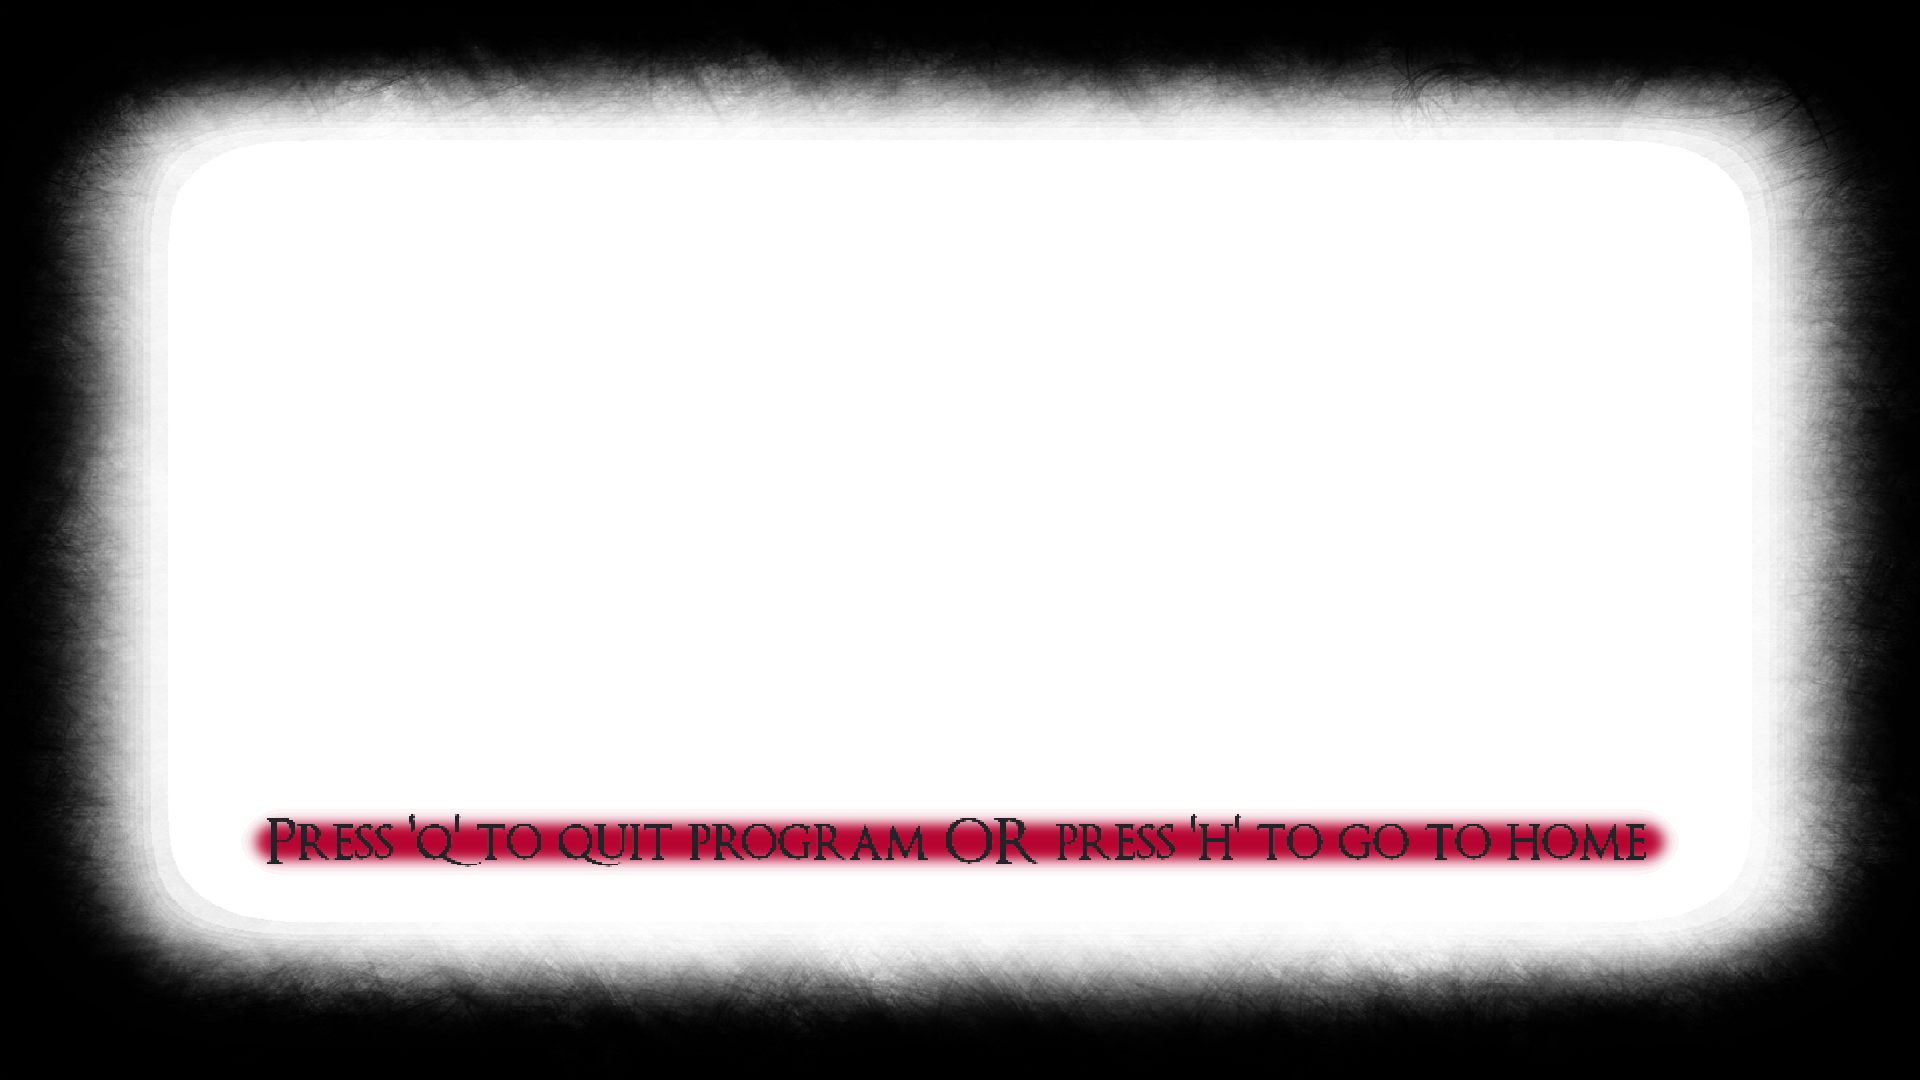
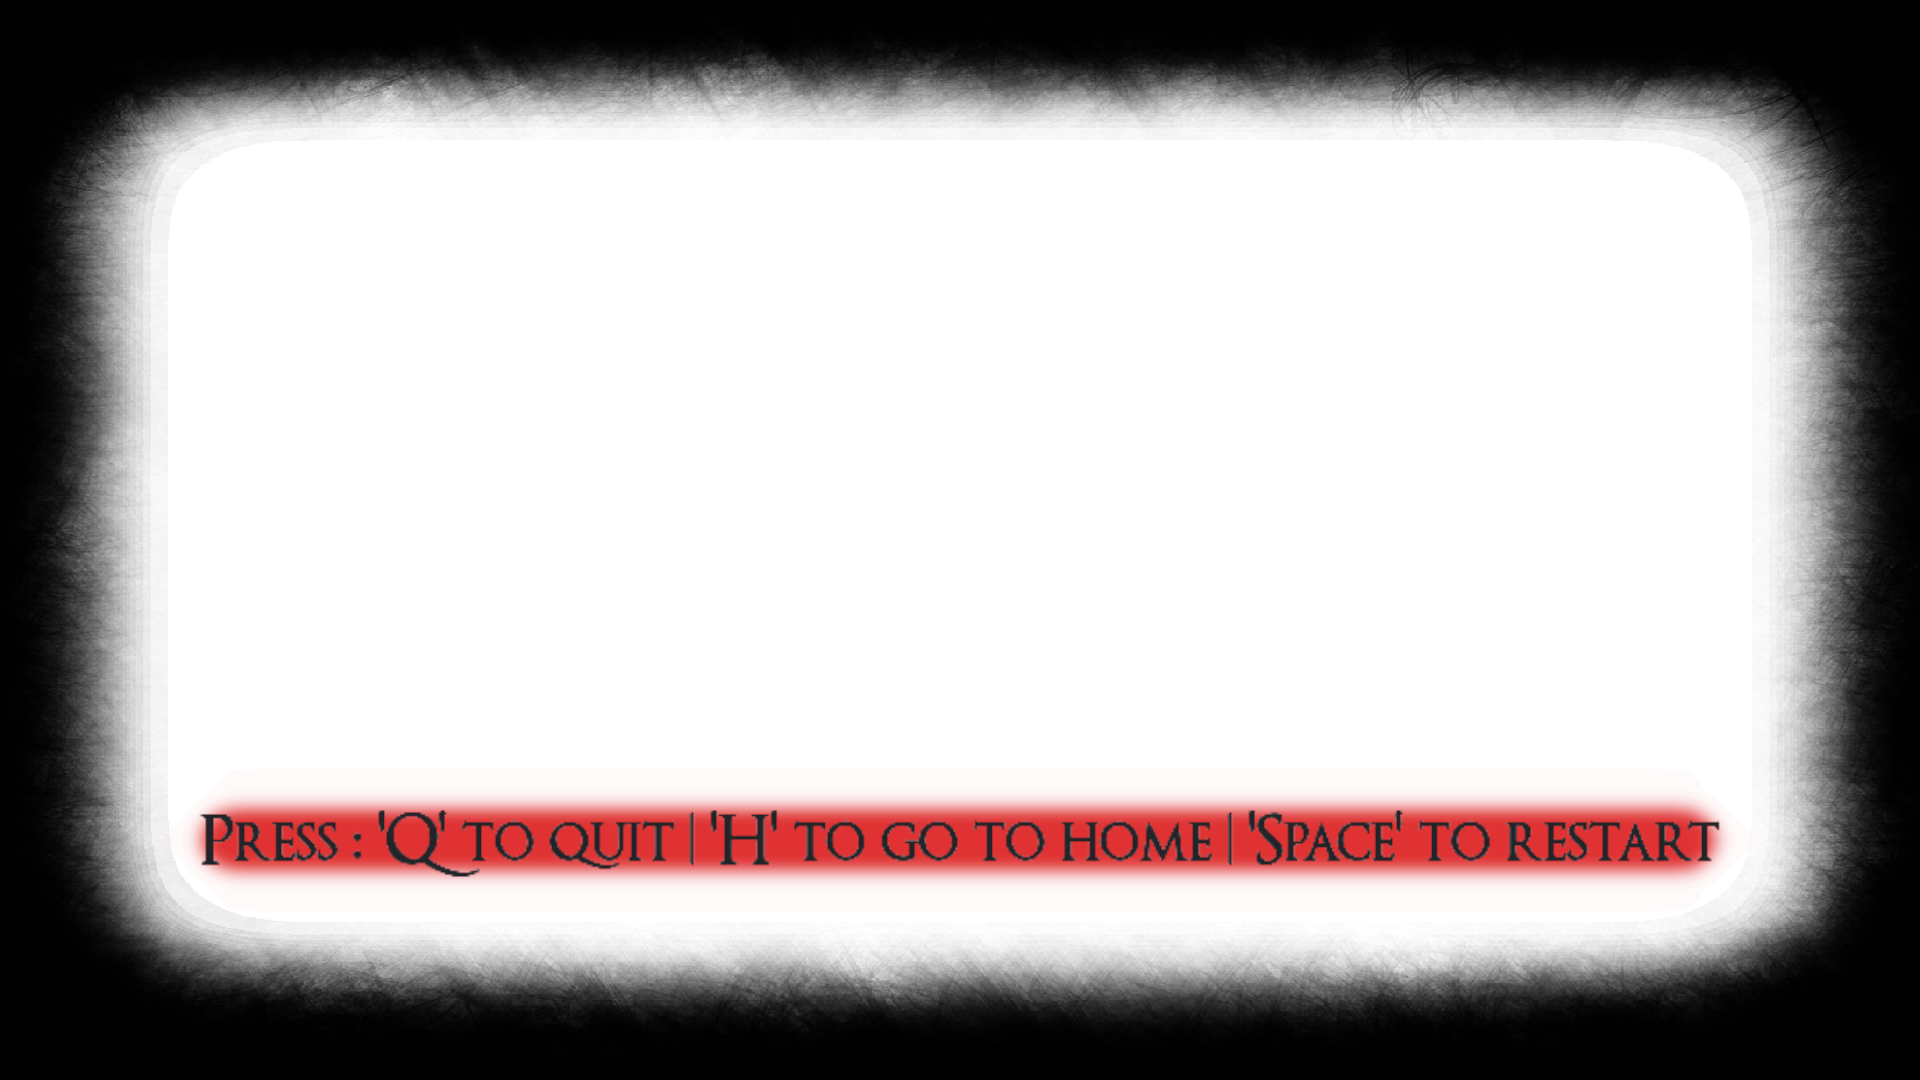
Add : restart button in dead menu

Changed region(s): [[0.0938, 0.7333, 0.9062, 0.825]]

diff --git a/src/menu/pause/restart_button.c b/src/menu/pause/restart_button.c
@@ -2,12 +2,14 @@
 ** EPITECH PROJECT, 2022
 ** rpg
 ** File description:
-** restart button 
+** restart button
 */
 
 #include "my_rpg.h"
 #include "ennemies.h"
 #include "main_menu.h"
+
+extern const char can_play_dead_screen[];
 
 static void restart_player_state(window_t *win)
 {
@@ -32,6 +34,28 @@ static void restart_player_state(window_t *win)
     }
 }
 
+static void restart_dead_screen(window_t *win, scene_t *scene)
+{
+    object_t *dead_message = NULL;
+    object_t *dead_screen = NULL;
+    bool *can_play = NULL;
+
+    if (win == NULL || win->components == NULL) {
+        return;
+    }
+    dead_message = dico_t_get_value(win->components, DEAD_MESSAGE);
+    dead_screen = dico_t_get_value(win->components, DEAD_SCREEN);
+    if (dead_message == NULL || dead_screen == NULL) {
+        return;
+    }
+    can_play = dico_t_get_value(scene->components, can_play_dead_screen);
+    if (can_play == NULL) {
+        return;
+    }
+    *can_play = false;
+    set_dead_opacity(dead_message, dead_screen);
+}
+
 static void restart_spawner(scene_t *scene)
 {
     list_t *elem = NULL;
@@ -50,6 +74,17 @@ static void restart_spawner(scene_t *scene)
     }
 }
 
+void restart_game(scene_t *scene, window_t *win)
+{
+    restart_spawner(scene);
+    replace_objects(win, scene);
+    restart_player_state(win);
+    restart_dead_screen(win, scene);
+    scene->pause = false;
+    set_is_visible_false(dico_t_get_value(win->components, PAUSE_MENU));
+    set_is_visible_false(dico_t_get_value(win->components, SETTINGS_MENU));
+}
+
 void restart_button_off(object_t *obj, scene_t *scene, window_t *win,
     set_event_t *evt)
 {
@@ -59,11 +94,6 @@ void restart_button_off(object_t *obj, scene_t *scene, window_t *win,
         pressed_button_off(obj, scene, win, evt);
         return;
     }
-    restart_spawner(scene);
-    replace_objects(win, scene);
-    restart_player_state(win);
-    scene->pause = false;
-    set_is_visible_false(dico_t_get_value(win->components, PAUSE_MENU));
-    set_is_visible_false(dico_t_get_value(win->components, SETTINGS_MENU));
+    restart_game(scene, win);
     pressed_button_off(obj, scene, win, evt);
 }

diff --git a/src/menu/dead/configure_dead_screen.c b/src/menu/dead/configure_dead_screen.c
@@ -15,7 +15,7 @@ static void (*dead_screen_update[2])(object_t *, scene_t *,
     window_t *, float) = {update_dead_message, update_dead_screen};
 const char can_play_dead_screen[] = "can_play";
 
-static void set_opacity(object_t *dead_message, object_t *dead_screen)
+void set_dead_opacity(object_t *dead_message, object_t *dead_screen)
 {
     if (dead_message == NULL || dead_screen == NULL) {
         return;
@@ -24,6 +24,8 @@ static void set_opacity(object_t *dead_message, object_t *dead_screen)
         (sfColor) {255, 255, 255, 0});
     sfSprite_setColor(dead_screen->drawable.sprite,
         (sfColor) {255, 255, 255, 0});
+    dead_message->is_visible = false;
+    dead_screen->is_visible = false;
     return;
 }
 
@@ -54,11 +56,11 @@ static void config_input_and_components(window_t *win,
     if (event_add_node(create_event(dead_event_input, false, dead_message,
             NULL), (node_params_t) {sfMouseLeft, sfKeyQ, KEY}) != BGS_OK ||
         event_add_node(create_event(dead_event_input, false, dead_message,
-            NULL), (node_params_t) {sfMouseLeft, sfKeyH, KEY}) != BGS_OK) {
+            NULL), (node_params_t) {sfMouseLeft, sfKeyH, KEY}) != BGS_OK ||
+        event_add_node(create_event(dead_event_input, false, dead_message,
+            NULL), (node_params_t) {sfMouseLeft, sfKeySpace, KEY}) != BGS_OK) {
         return;
     }
-    dead_message->is_visible = false;
-    dead_screen->is_visible = false;
     if (scene_add_components(scene, can_play,
         can_play_dead_screen, free) != BGS_OK ||
         window_add_component(win, dead_message,
@@ -67,7 +69,7 @@ static void config_input_and_components(window_t *win,
             DEAD_SCREEN, NULL) != BGS_OK) {
         return;
     }
-    set_opacity(dead_message, dead_screen);
+    set_dead_opacity(dead_message, dead_screen);
 }
 
 static int add_object_to_update_list(scene_t *scene, object_t *dead_screens)

diff --git a/src/menu/dead/event_dead_screen.c b/src/menu/dead/event_dead_screen.c
@@ -8,6 +8,20 @@
 #include "my_bgs_components.h"
 #include "my_rpg.h"
 
+static void handle_dead_key_input(int key, window_t *window, scene_t *scene)
+{
+    switch (key) {
+        case sfKeyQ:
+            sfRenderWindow_close(window->win);
+            return;
+        case sfKeyH:
+            go_to_home(scene, window);
+            return;
+        case sfKeySpace:
+            restart_game(scene, window);
+    }
+}
+
 void dead_event_input(object_t *object, scene_t *scene,
     window_t *window, set_event_t *event)
 {
@@ -18,16 +32,9 @@ void dead_event_input(object_t *object, scene_t *scene,
             event->input_key.event_type != KEY) {
         return;
     }
-    player = dico_t_get_value(window->components, "player");
+    player = dico_t_get_value(window->components, PLAYER);
     if (player == NULL || player->state != DIE) {
         return;
     }
-    if (event->input_key.event_code.key == sfKeyQ) {
-        sfRenderWindow_close(window->win);
-        return;
-    }
-    if (event->input_key.event_code.key == sfKeyH) {
-        go_to_home(scene, window);
-        return;
-    }
+    handle_dead_key_input(event->input_key.event_code.key, window, scene);
 }

diff --git a/include/my_rpg.h b/include/my_rpg.h
@@ -235,6 +235,8 @@ void destroy_player(void *player_void);
 void dead_event_input(object_t *object, scene_t *scene,
     window_t *window, set_event_t *event);
 
+void set_dead_opacity(object_t *dead_message, object_t *dead_screen);
+
 void free_pop_up(void *list);
 
 int init_stat_upgrade_pop_up(scene_t *scene, list_ptr_t *uid_elements,
@@ -258,6 +260,8 @@ int init_hud(window_t *win, scene_t *scene);
 int set_player_default_stats(player_t *player, any_t *stats);
 
 void go_to_home(scene_t *scene, window_t *win);
+
+void restart_game(scene_t *scene, window_t *win);
 
 bool check_evolution_stat(player_t *player, float *prev_max_stat,
     const char stat_name[]);
